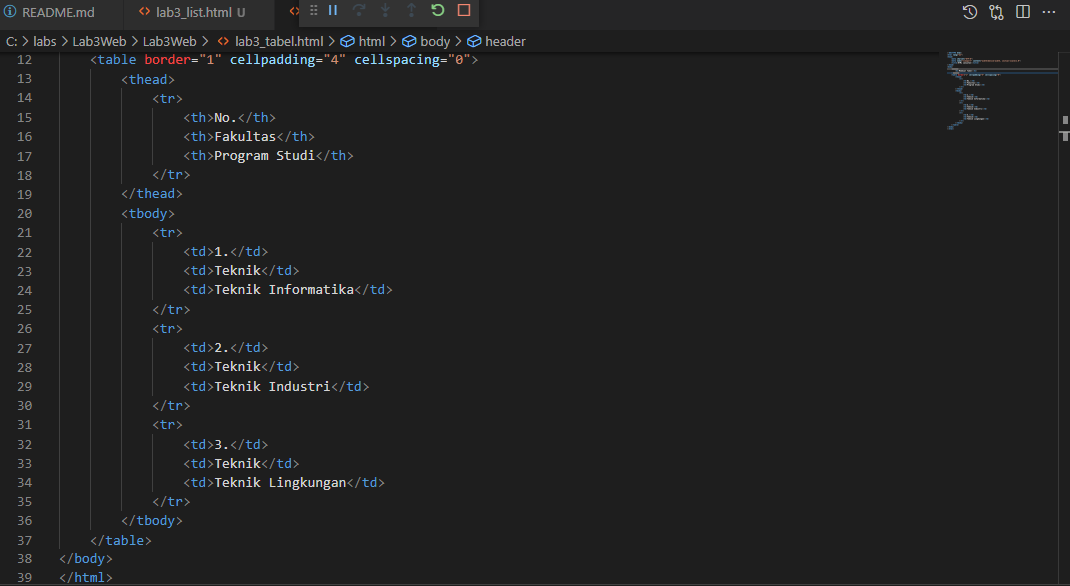
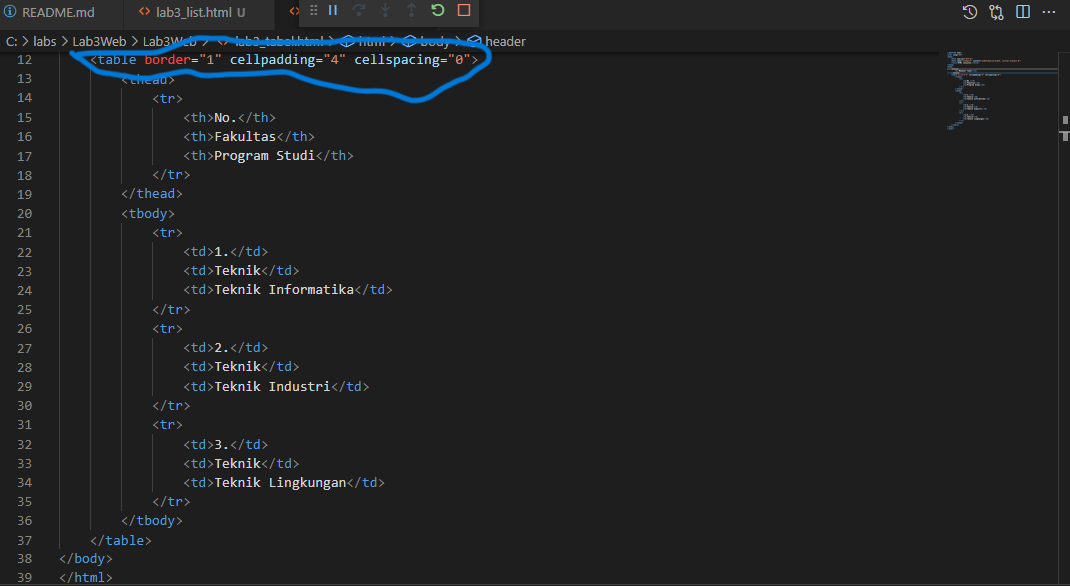
menambahkan gambar

Changed region(s): [[0.0617, 0.0614, 0.4626, 0.1843]]

diff --git a/README.md b/README.md
@@ -31,3 +31,9 @@ section unordered-list, seperti berikut.
 <br>Kemudian selanjutnya tambahkan kode untuk membuat tabel sederhana seperti berikut:
 ![p](gambar/ss11.png)
 ![p](gambar/ss12.png)
+
+# Mengatur Margin dan Padding
+<br>Untuk mengatur margin dan padding pada cel data, tambahkan atribut cellpadding dan
+cellspacing pada tag table.
+![p](gambar/ss9.png)
+![p](gambar/ss10.png)
